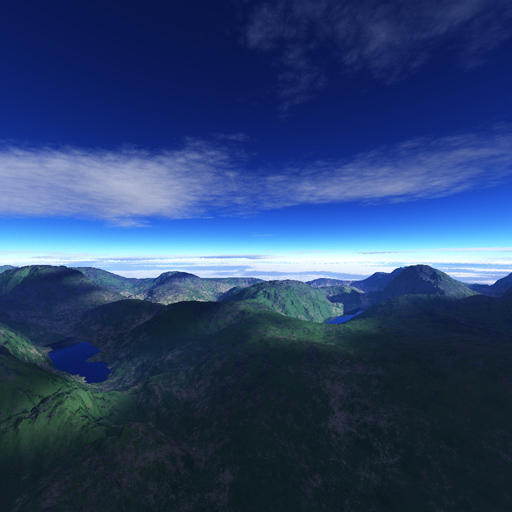
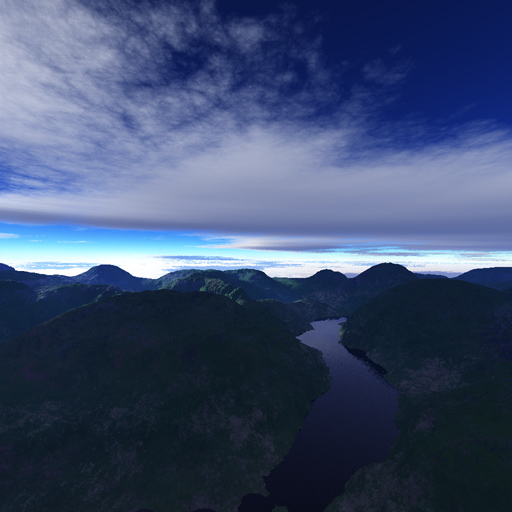
skybox!

diff --git a/src/Renderer/RenderEngine.cc b/src/Renderer/RenderEngine.cc
@@ -298,8 +298,80 @@ void renderOverlay(Program& p, Texture& holstein, Text& text)
     glDeleteBuffers(1, &UV_VBO);
 }
 
-void renderSkybox(Cubemap& sky, Program& p)
+void renderSkybox(Cubemap& sky, Program& p, Camera& c)
 {
+    static const GLfloat cube_vertices[] = {
+        -1.0,  1.0,  1.0,
+        -1.0, -1.0,  1.0,
+         1.0, -1.0,  1.0,
+         1.0,  1.0,  1.0,
+        -1.0,  1.0, -1.0,
+        -1.0, -1.0, -1.0,
+         1.0, -1.0, -1.0,
+         1.0,  1.0, -1.0,
+    };
+    
+    static const GLushort cube_indices[] = {
+        //0, 1, 2, 3,
+        //3, 2, 6, 7,
+        //7, 6, 5, 4,
+        //4, 5, 1, 0,
+        //0, 3, 7, 4,
+        //1, 2, 6, 5,
+        
+        0, 1, 2,
+        0, 2, 3,
+        
+        3, 2, 6,
+        3, 6, 7,
+        
+        7, 6, 5,
+        7, 5, 4,
+        
+        4, 5, 1,
+        4, 1, 0,
+        
+        0, 3, 7,
+        0, 7, 4,
+        
+        1, 2, 6,
+        1, 6, 5,
+    };
+    
+    ProgramContext pc{p};
+    
+    GLuint vao, vbo, ibo;
+    
+    glGenBuffers(1, &vbo);
+    glGenBuffers(1, &ibo);
+    glGenVertexArrays(1, &vao);
+    
+    glBindVertexArray(vao);
+    glBindBuffer(GL_ARRAY_BUFFER, vbo);
+    glBindBuffer(GL_ELEMENT_ARRAY_BUFFER, ibo);
+    
+    glBufferData(GL_ARRAY_BUFFER, sizeof(cube_vertices), cube_vertices, GL_STATIC_DRAW);
+    glBufferData(GL_ELEMENT_ARRAY_BUFFER, sizeof(cube_indices), cube_indices, GL_STATIC_DRAW);
+    
+    glEnableVertexAttribArray(p.attrib("vertex"));
+    glVertexAttribPointer(p.attrib("vertex"), 3, GL_FLOAT, GL_FALSE, 0, 0);
+    
+    glm::mat4 M = c.projectionMatrix() * c.viewMatrix() * glm::scale(glm::translate(glm::mat4{}, -c._spatial.globalPosition()), glm::vec3{50});
+    
+    p.setUniform("PVM", M);
+
+    sky.bind(GL_TEXTURE0);
+    p.setUniform("cubemap", 0);
+    
+    glDisable(GL_CULL_FACE);
+    glDrawElements(GL_TRIANGLES, sizeof(cube_indices)/sizeof(GLushort), GL_UNSIGNED_SHORT, 0);
+    glEnable(GL_CULL_FACE);
+    sky.unbind();
+    
+    glDeleteVertexArrays(1, &vao);
+    glDeleteBuffers(1, &vbo);
+    glDeleteBuffers(1, &ibo);
+    
 }
 
 void RenderEngine::update(int pass, double delta)
@@ -309,7 +381,7 @@ void RenderEngine::update(int pass, double delta)
         glClearColor(0.0, 0.0, 0.0, 1); // black
         glClear(GL_COLOR_BUFFER_BIT | GL_DEPTH_BUFFER_BIT);
         
-        renderSkybox(*sky, *sky_program);
+        renderSkybox(*sky, *sky_program, *_camera);
         
         for(auto& model : models)
         {

diff --git a/src/CubemapResourceLoader.h b/src/CubemapResourceLoader.h
@@ -10,6 +10,7 @@
 #include <memory>
 #include <vector>
 #include <sstream>
+#include <iostream>
 
 namespace Ymir
 {
@@ -26,6 +27,7 @@ namespace Ymir
                 ident << i;
                 ident << "_";
                 ident << identifier;
+                std::cout << ident.str() << std::endl;
                 
                 auto stream = manifests.read(ident.str());
                 

diff --git a/src/Renderer/Camera.h b/src/Renderer/Camera.h
@@ -11,8 +11,8 @@ namespace Ymir
     class Camera
     {
         CameraComponent& _camera;
-        SpatialComponent& _spatial;
     public:
+        SpatialComponent& _spatial;
         static std::unique_ptr<Camera> fromEntity(const Entity& e);
 
         Camera(CameraComponent& c, SpatialComponent& s);
